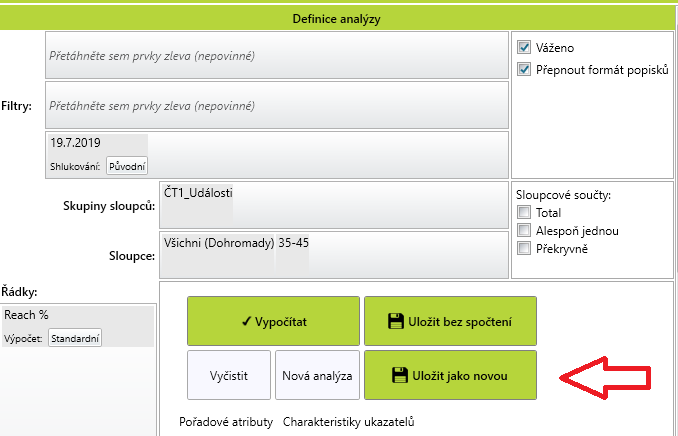
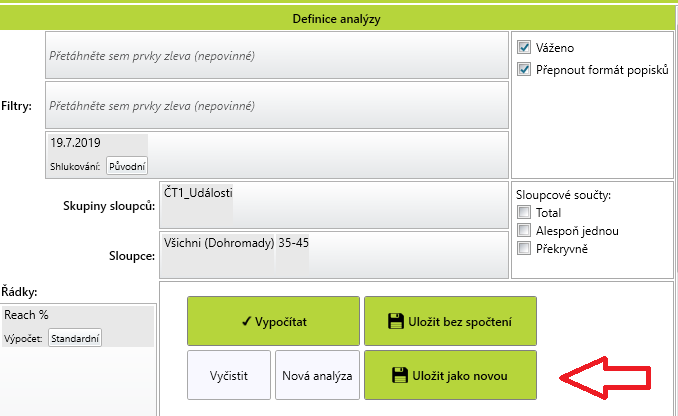
274 Kiwi v2

Changed region(s): [[0.0, 0.0, 1.0, 1.0], [0.0, 0.6562, 0.1549, 0.8438]]

diff --git a/_posts/1999-05-04-1.1.274K.md b/_posts/1999-05-04-1.1.274K.md
@@ -4,7 +4,7 @@ layout: kiwi
 ---
 ## Uložit změněnou analýzu jako
 
-V okně Analýza je nyní možné "Uložit analýzu jako" což vytvoří kopii analýzy s aktuálními změnami.
+V okně Analýza je nově k dispozici tlačítko "Uložit jako novou", které vytvoří kopii upravované analýzy s aktuálními změnami.
 
 
 ![Uložit jako]({{site.url}}/data/Analyza_ulozit_jako.png)
